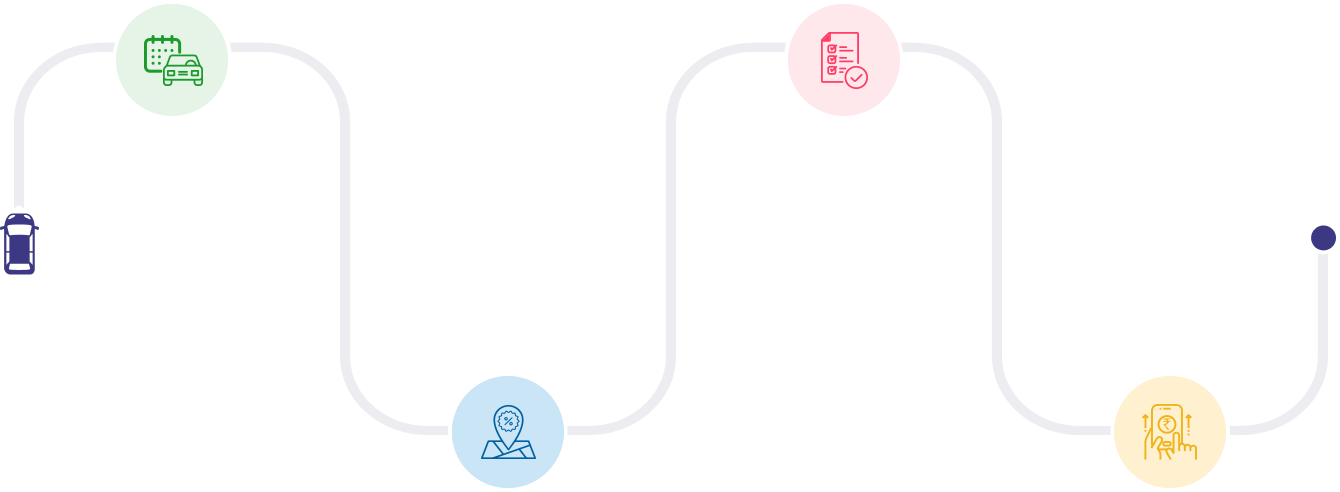
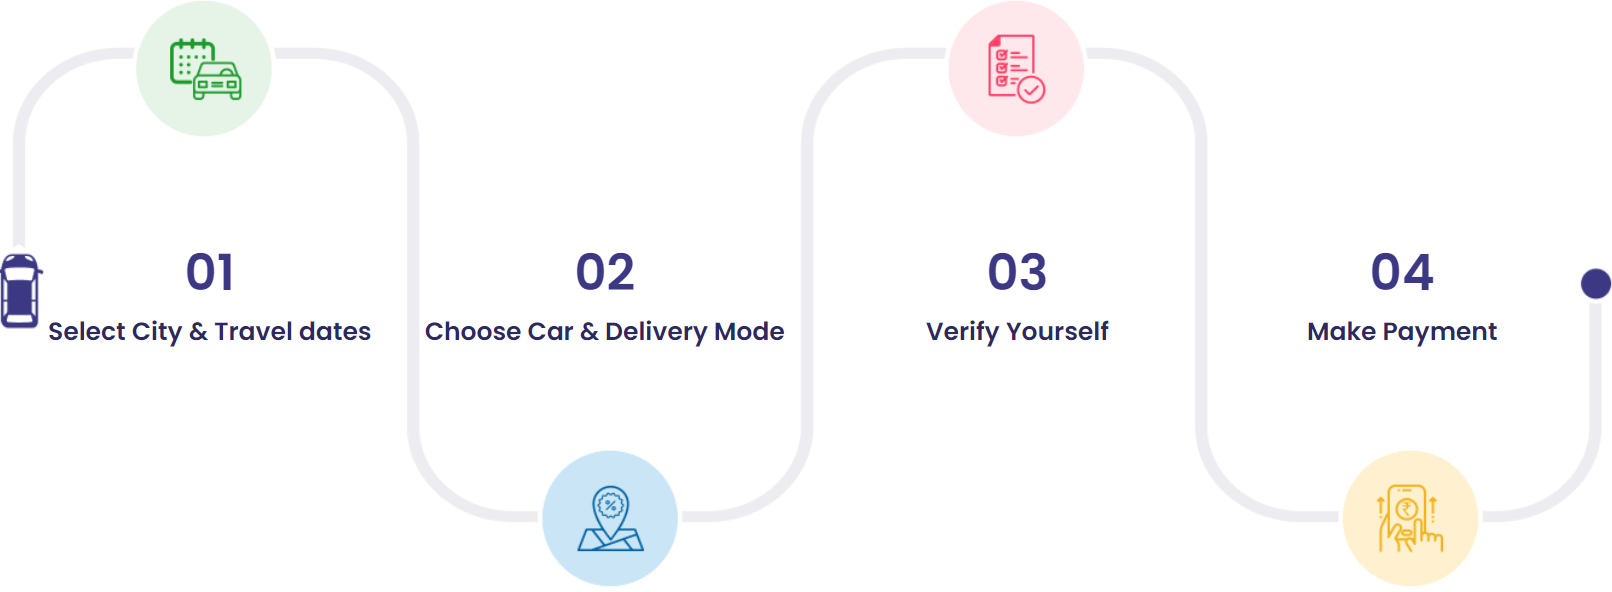
fixed road map

diff --git a/user/src/section/RoadMap.js b/user/src/section/RoadMap.js
@@ -1,6 +1,7 @@
 import React from "react";
 import roadMap from "../assets/roadMap.png";
-import verticalRoadMap from "../assets/verticalRoadMap.svg";
+import verticalRoadMap from "../assets/verticalRoadMap.png"
+
 
 function RoadMap() {
   return (
@@ -29,18 +30,19 @@ function RoadMap() {
         </p>
       </div>
 
-      <div className="flex items-center justify-center w-full">
+      <div className="flex items-center justify-center w-full relative">
         <img 
           src={roadMap} 
           alt="Steps to book a self-drive car" 
           className="hidden md:inline-block 
-            w-full 
-            max-w-6xl 
+            w-[80%]
+          
             object-contain 
             px-4 sm:px-6 md:px-8 
             hover:scale-105 
             transition-transform duration-300"
         />
+        
         <img 
           src={verticalRoadMap} 
           alt="Steps to book a self-drive car" 
@@ -52,6 +54,7 @@ function RoadMap() {
             hover:scale-105 
             transition-transform duration-300"
         />
+        {/* <RoadmapText /> */}
       </div>
     </div>
   );

diff --git a/user/src/index.css b/user/src/index.css
@@ -19,6 +19,8 @@
   --color-backgroundGray:#f9f9f9;
   --color-gray: #8c84a4; 
   --color-grayLight: #e4e4ea;
+  --bs-gutter-x: 1.5rem;
+  --bs-gutter-y: 0;
 }
 
 body {
